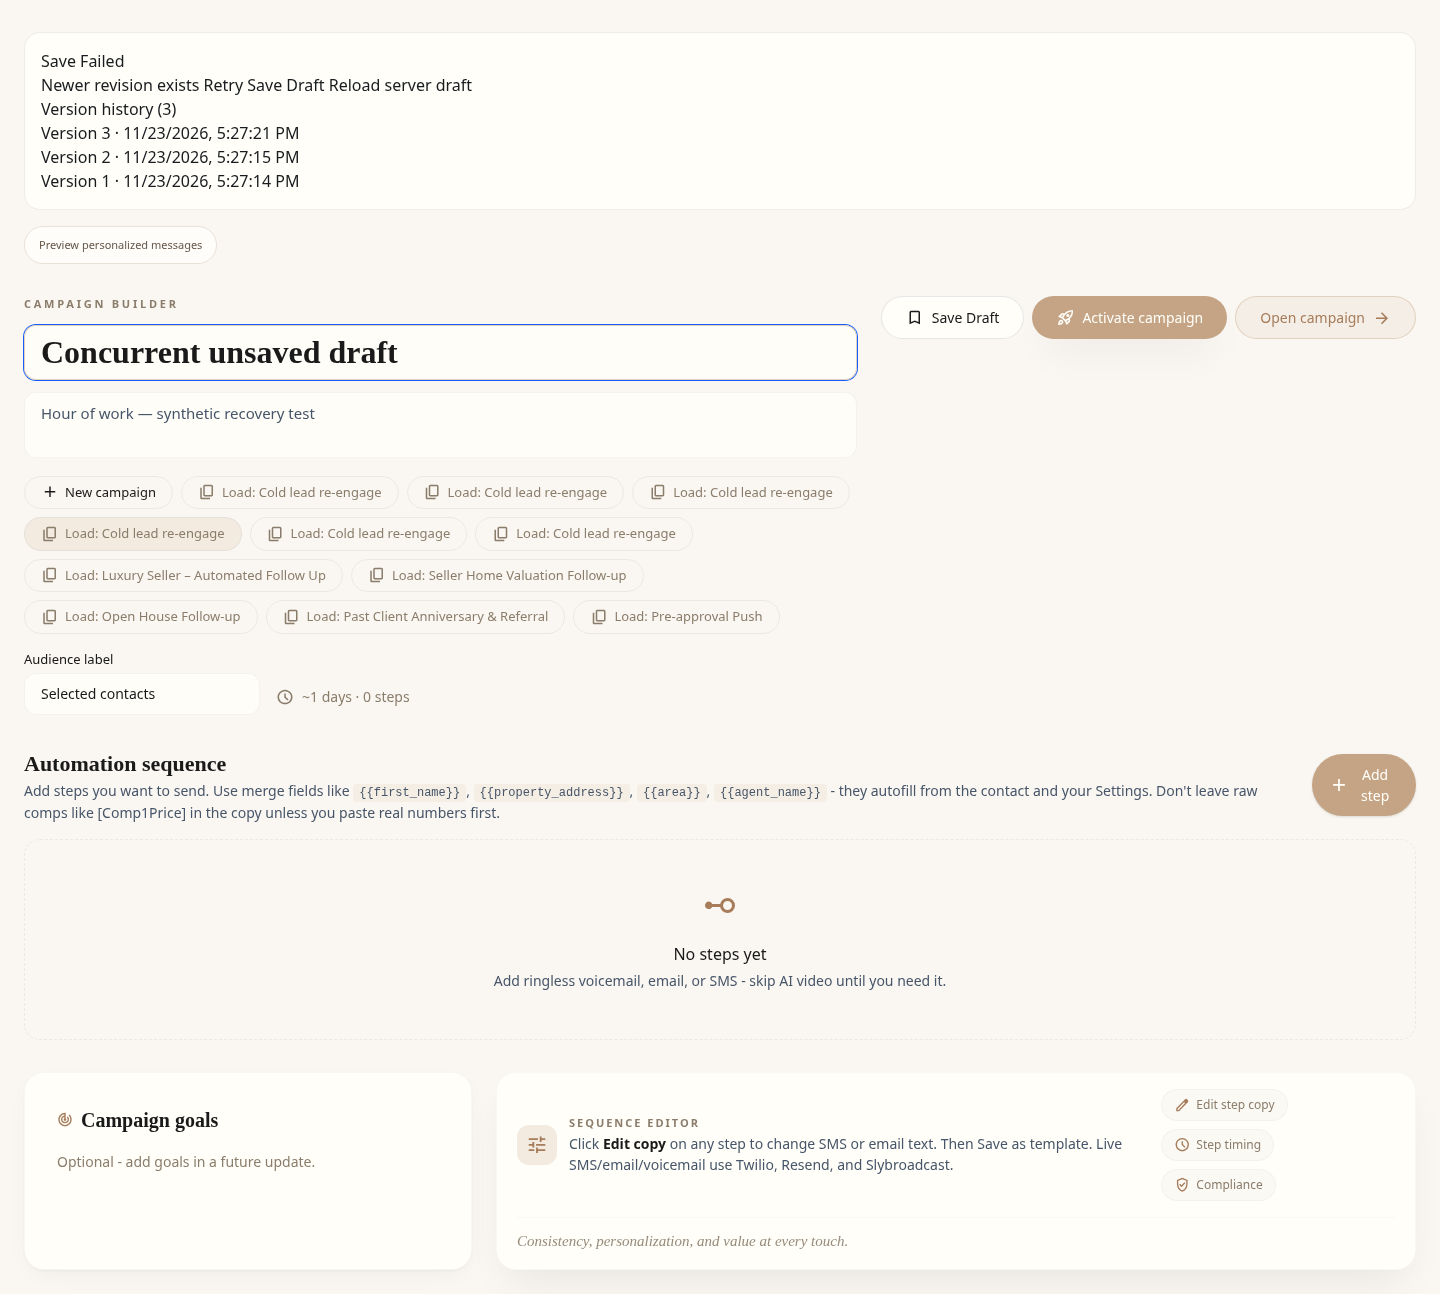
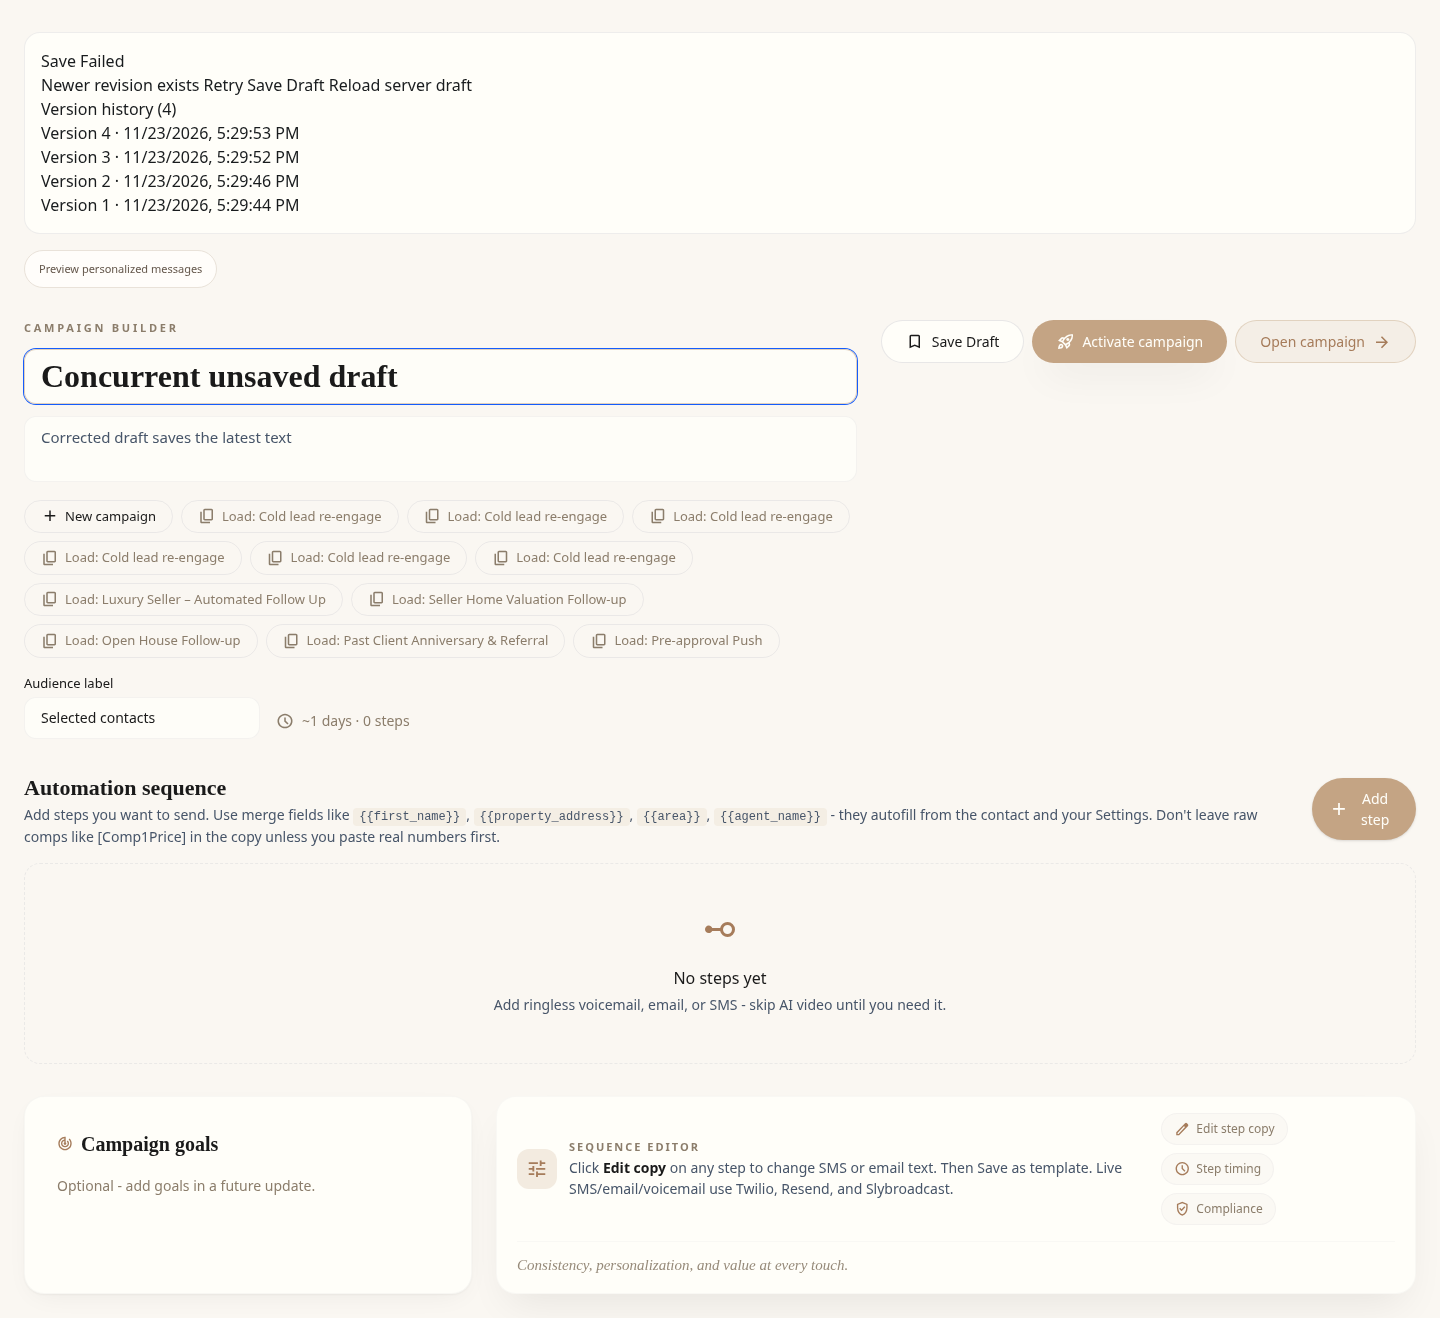
Reject stale transition writes and allow corrected draft retries

diff --git a/app/api/campaigns/drafts/route.ts b/app/api/campaigns/drafts/route.ts
@@ -68,13 +68,17 @@ export const GET = withApiHandler(async (request: Request) => {
 const Body = z.object({
   campaignId: z.string().uuid(),
   expectedRevision: z.number().int().nonnegative(),
+  baseUpdatedAt: z.string().datetime({ offset: true }).nullable().optional(),
   operationId: z.string().uuid(),
   snapshot: DraftSnapshot,
 });
 export const POST = withApiHandler(async (request: Request) => {
   const owner = await requireUserId();
   if (Number(request.headers.get("content-length") || 0) > 1500000)
-    return apiError("Draft too large.", { status: 413 });
+    return apiError("Draft too large.", {
+      status: 413,
+      code: "draft_too_large",
+    });
   const reader = request.body?.getReader(),
     decoder = new TextDecoder();
   let text = "",
@@ -86,14 +90,20 @@ export const POST = withApiHandler(async (request: Request) => {
       size += chunk.value.byteLength;
       if (size > 1500000) {
         await reader.cancel();
-        return apiError("Draft too large.", { status: 413 });
+        return apiError("Draft too large.", {
+          status: 413,
+          code: "draft_too_large",
+        });
       }
       text += decoder.decode(chunk.value, { stream: true });
     }
     text += decoder.decode();
   }
   if (text.length > 1500000)
-    return apiError("Draft too large.", { status: 413 });
+    return apiError("Draft too large.", {
+      status: 413,
+      code: "draft_too_large",
+    });
   const b = Body.parse(JSON.parse(text));
   for (const step of b.snapshot.steps) {
     if (!step.voiceAssetId) continue;
@@ -111,11 +121,19 @@ export const POST = withApiHandler(async (request: Request) => {
     if (!voice.data)
       return apiError("Choose a recording from your own workspace.", {
         status: 400,
+        code: "draft_validation_error",
       });
   }
   for (const s of b.snapshot.steps)
     for (const a of s.attachments ?? [])
-      assertAttachmentOwnership(owner, a.storagePath);
+      try {
+        assertAttachmentOwnership(owner, a.storagePath);
+      } catch {
+        return apiError("Choose an attachment from your own workspace.", {
+          status: 400,
+          code: "draft_validation_error",
+        });
+      }
   const { data, error } = await supabaseAdmin.rpc(
     "save_campaign_editor_draft",
     {
@@ -124,6 +142,7 @@ export const POST = withApiHandler(async (request: Request) => {
       p_expected: b.expectedRevision,
       p_operation: b.operationId,
       p_snapshot: b.snapshot,
+      p_base_updated_at: b.baseUpdatedAt ?? null,
     },
   );
   if (error) {

diff --git a/lib/hooks/use-campaign-draft.ts b/lib/hooks/use-campaign-draft.ts
@@ -19,6 +19,7 @@ export function useCampaignDraft(
   ready: boolean,
   campaign: CampaignDefinition,
   onLoad: (snapshot: CampaignDefinition) => void,
+  baseUpdatedAt?: string | null,
 ) {
   const [state, setState] = useState("Loading draft"),
     [error, setError] = useState(""),
@@ -178,6 +179,7 @@ export function useCampaignDraft(
         body: JSON.stringify({
           campaignId: id,
           expectedRevision: operation.expected,
+          baseUpdatedAt,
           operationId: operation.operationId,
           snapshot: operation.snapshot,
         }),
@@ -187,6 +189,15 @@ export function useCampaignDraft(
           setState("Save Failed");
           setError(response.error);
           if (response.code === "revision_conflict") blocked.current = true;
+          if (
+            [
+              "validation_error",
+              "draft_validation_error",
+              "draft_too_large",
+              "unauthorized",
+            ].includes(response.code ?? "")
+          )
+            pending.current = null;
         }
         throw Error(response.error);
       }
@@ -242,7 +253,7 @@ export function useCampaignDraft(
     // A previous ambiguous save may have completed while the user continued typing.
     if (draftFingerprint(latest.current) !== saved.current) return save();
     return result;
-  }, [owner, hydrated, hydrationKey, ready, id, key]);
+  }, [owner, hydrated, hydrationKey, ready, id, key, baseUpdatedAt]);
   useEffect(() => {
     if (!ready || hydrationKey !== key || !hydrated || !key || !dirty) return;
     try {

diff --git a/components/pages/stitch/CampaignBuilderPage.tsx b/components/pages/stitch/CampaignBuilderPage.tsx
@@ -59,6 +59,7 @@ export function CampaignBuilderPage() {
     userId,
   );
   const [newDraftId, setNewDraftId] = useState(() => crypto.randomUUID());
+  const [baseUpdatedAt, setBaseUpdatedAt] = useState<string | null>(null);
   const [baseReady, setBaseReady] = useState(!editId);
   const [activationKey, setActivationKey] = useState(() => crypto.randomUUID());
   const [historyOpen, setHistoryOpen] = useState(false);
@@ -83,6 +84,7 @@ export function CampaignBuilderPage() {
     baseReady && boundOwner === userId,
     campaign,
     setCampaign,
+    baseUpdatedAt,
   );
   useEffect(() => {
     if (boundOwner === userId) return;
@@ -240,6 +242,7 @@ export function CampaignBuilderPage() {
           id: string;
           name: string;
           status: string;
+          updated_at?: string;
           script_id?: string;
           description?: string;
           audience?: string;
@@ -296,6 +299,7 @@ export function CampaignBuilderPage() {
           "Opened a separate draft revision. The original campaign and its history are unchanged.",
         );
       }
+      setBaseUpdatedAt(envelope.data.campaign.updated_at ?? null);
       setCampaign(loaded);
       setDbCampaignId(
         envelope.data.campaign.status === "draft" && !envelope.data.runs?.length

diff --git a/scripts/campaign-reliability/entry.jsx b/scripts/campaign-reliability/entry.jsx
@@ -97,6 +97,12 @@ w.fetch = async (input, options = {}) => {
       k = w.__owner + ":" + b.campaignId,
       item = db[k];
     if (w.__delay) await new Promise((r) => setTimeout(r, w.__delay));
+    if (w.__mode === "invalidDraft")
+      return failure(
+        "Synthetic draft validation failed",
+        "validation_error",
+        400,
+      );
     if (w.__mode === "offline") throw Error("Synthetic network failure");
     if (w.__mode === "conflict")
       return failure("Newer revision exists", "revision_conflict", 409);

diff --git a/docs/campaign-reliability/RECOVERY-AND-RELEASE.md b/docs/campaign-reliability/RECOVERY-AND-RELEASE.md
@@ -22,7 +22,7 @@ The new editor never reads, migrates or overwrites that legacy key. It retains a
 - New authenticated `/api/campaigns/drafts` GET/POST; session-derived owner, never a payload owner.
 - Server-only tables `campaign_editor_drafts` and append-only `campaign_editor_versions`; RLS enabled, no public/anon/authenticated privileges. Three SECURITY INVOKER RPCs with fixed search_path and revoked public EXECUTE.
 - Transactional save preserves the entire canonical draft and projects its current steps/name in the same transaction. Retained step IDs survive. Existing draft baseline captured as version 0 before first edit. Active/history-bearing campaigns require a separate revision; original campaigns, recipients and run history are not rewritten.
-- Revision CAS and owner-scoped operation IDs reject stale writes and make retries idempotent. Existing unversioned writers cannot overwrite a managed draft through legacy routes. Snapshot ownership and voice/attachment authorization enforced.
+- The first managed save also compares the original campaign timestamp, so an older editor tab cannot be overwritten during the transition. Revision CAS and owner-scoped operation IDs reject stale writes and make retries idempotent. Existing unversioned writers cannot overwrite a managed draft through legacy routes. Snapshot ownership and voice/attachment authorization enforced.
 - Debounced autosave after meaningful edits (1.2 seconds), explicit Save Draft, confirmed Saving/Saved/Save Failed states, local recovery, retry, beforeunload and link-navigation prompts. Browsers can suppress native close warnings; no browser can guarantee preservation after OS termination before a local write or autosave.
 - Editor URL adopts the confirmed campaign ID so refresh/login loads that same draft. Voice asset refreshes only affect display metadata, never reload the editor. Account changes clear previous account state and scope local recovery separately.
 - Timestamped version history (100 metadata rows per page), comparison, explicit restore as a NEW revision. Historical snapshots remain intact.
